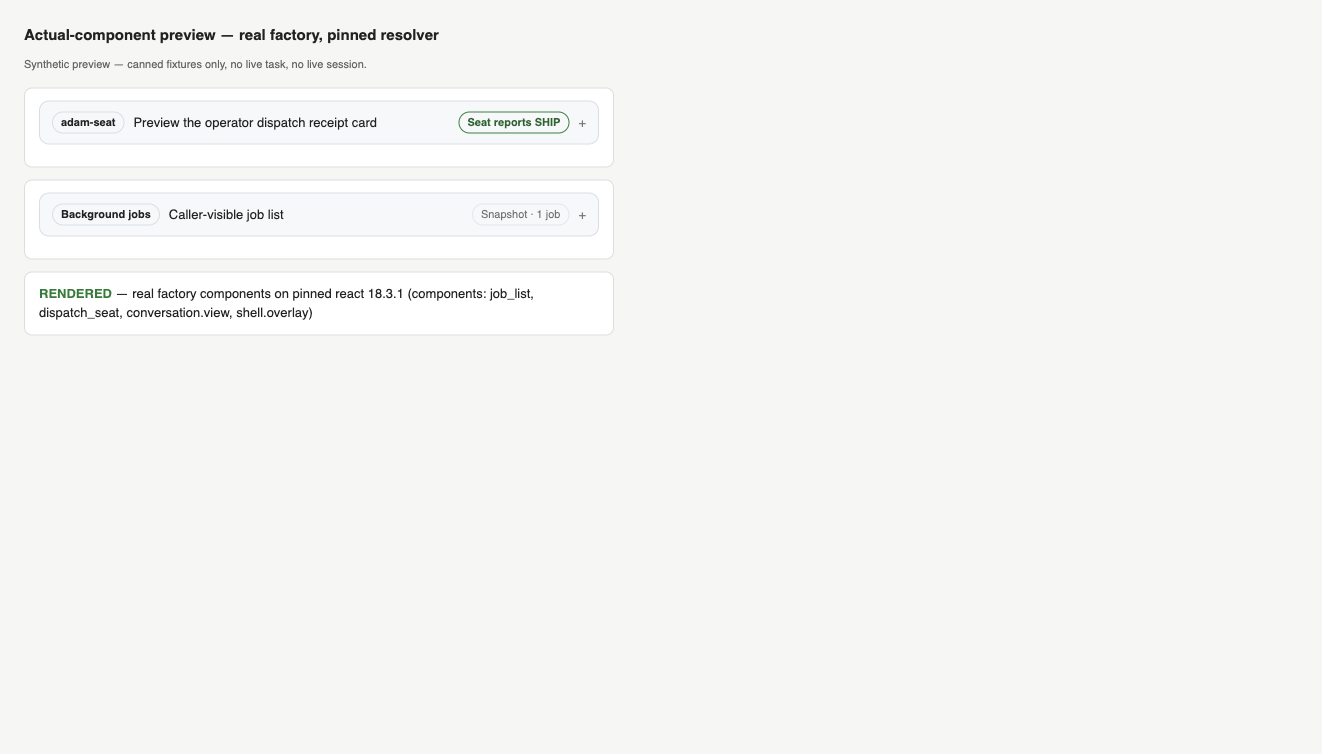
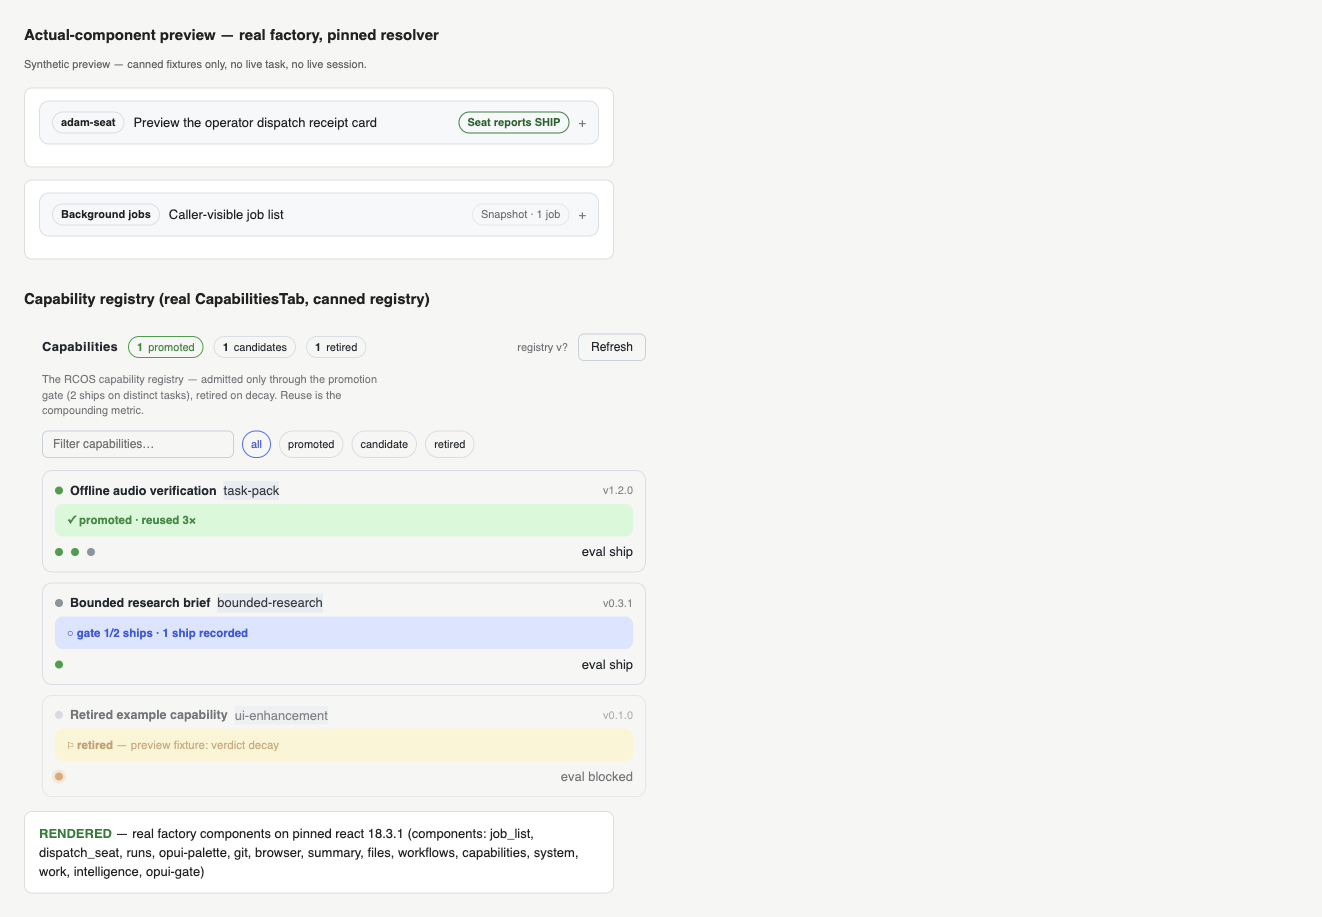
feat(B2): UI proof via P1 harness — real CapabilitiesTab renders registry states
- shim keys by def.key||def.id (tabs no longer collide); all 14 registered
  components captured, incl. CapabilitiesTab
- preview serves canned rcos-registry.json at the same-origin endpoint;
  harness mounts the real registry view: promoted / gate-1-of-2 / retired
- evidence screenshot updated (full-page, 14 components)
- queue: P1 -> DONE (UI proof), B2 UI-proof note resolved

diff --git a/test/fixtures/operator-preview/render.html b/test/fixtures/operator-preview/render.html
@@ -19,6 +19,8 @@
 <div class="banner" id="banner">Synthetic preview — canned fixtures only, no live task, no live session.</div>
 <div id="wm-root"></div>
 <div id="jl-root"></div>
+<h1 style="margin-top:28px">Capability registry (real CapabilitiesTab, canned registry)</h1>
+<div id="caps-root" style="max-width:640px"></div>
 <div id="summary" class="card">rendering…</div>
 
 <script src="/vendor/react.production.min.js"></script>
@@ -43,7 +45,9 @@ window.__ModuleLoader__ = {
     effect: function (fn) { fn(); },
     slots: {
       inject: function (name, registrar) { registrar(); },
-      register: function (def, Component) { captured[def.key || def.name || def.id] = Component; },
+      // key: tool slots carry def.key; conversation.view tabs carry unique
+      // def.id; keep both distinct or tabs overwrite each other.
+      register: function (def, Component) { captured[def.key || def.id || def.name] = Component; },
     },
   });
 
@@ -80,12 +84,16 @@ window.__ModuleLoader__ = {
     var React = window.React, ReactDOM = window.ReactDOM;
     var wm = captured['dispatch_seat'];
     var jl = captured['job_list'];
+    var caps = captured['capabilities'];
     ReactDOM.createRoot(document.getElementById('wm-root'))
       .render(React.createElement('div', { className: 'card' },
         React.createElement(wm, { callId: 'preview-call-1', toolName: 'dispatch_seat', block: wmBlock, openFile: function () {}, inspect: function () {} })));
     ReactDOM.createRoot(document.getElementById('jl-root'))
       .render(React.createElement('div', { className: 'card' },
         React.createElement(jl, { callId: 'preview-call-2', toolName: 'job_list', block: jlBlock, inspect: function () {} })));
+    if (caps) {
+      ReactDOM.createRoot(document.getElementById('caps-root')).render(React.createElement(caps));
+    }
     results.ok = true;
     results.components = Object.keys(captured);
     results.reactVersion = React.version;

diff --git a/docs/AGENT-QUEUE.md b/docs/AGENT-QUEUE.md
@@ -16,7 +16,7 @@ Desktop/Canvas wiring.
 | B1a Third-party plugin discovery contract | DONE (source audit; adapter/runtime pending) | A1, B1 | Luna source audit + independent survey reconciliation; `docs/PLUGIN-ECOSYSTEM-CONTRACT.md`; documented APIs, dataset rights limits and separate listing/host evidence types; no install or runtime edits |
 | C1 Scoped execution source store | DONE (source) · code `1f73faf`, gate `PASS` | none | Gate snapshot `2097220`; no DSH/Canvas wiring; see `docs/EXECUTION-SOURCE-EVIDENCE.md` |
 | A2 Packed install / setup | DONE (archive source proof `740bf11` gate PASS 596/596 + isolated boot/remove EXECUTED 2026-09-28) — completed by dsh-lead agent at base `f60bf81`; evidence `docs/DESKTOP-COMPATIBILITY.md` §A2 "EXECUTED", raw boot logs `~/dsh-a2-boot/` (machine-local, not committed); boot: fresh-`DSH_HOME` scratch profile, isolated userData via same-length asar name patch (pre-patch asar `cf92b07a…8ef53865` == recorded, post-patch `084abf1b…d95dcd9`), port 19388 via `cordis.patch.yml` `id: webserver`; shell HTTP 200 + auth flow + session scaffolded; session survived quit→relaunch; removal left active app's sessions (8), credentials mtime, and Electron userData mtime identical; zero leftover processes. Caveat recorded: per-file hash table 0/4 reproducible | A1 | feed re-fetched unchanged 2026-09-28; ZIP size + SHA-512 verified; asar inventory (runtime/dsh/dsh-tools `0.2.0-rc.1`, cordis `4.0.4`, node `24.18.1`); seams by string evidence; peer-range MISMATCH kept, no pin widened; active app untouched; see `docs/DESKTOP-COMPATIBILITY.md` §A2 |
-| B2 Capability selection / task path | DONE (model + selection tests; UI proof waits P1) · 10/10 focused tests | A1, B1, B1a | `lib/capability-selection.js`, `test/capability-selection.test.mjs`; exact-identity resolution to archon-workflow binding; stale/changed/absent/unexecutable/ineligible all refuse with no binding or alternate; P2 addendum refines this packet, not a separate owner |
+| B2 Capability selection / task path | DONE (model + selection tests + UI proof via P1 harness: real CapabilitiesTab renders promoted/gate/retired from canned registry) · 10/10 focused tests | A1, B1, B1a | `lib/capability-selection.js`, `test/capability-selection.test.mjs`; exact-identity resolution to archon-workflow binding; stale/changed/absent/unexecutable/ineligible all refuse with no binding or alternate; P2 addendum refines this packet, not a separate owner |
 | C2 Canvas import / host mount | SOURCE ADAPTER DONE (6/6) · mount BLOCKED on donor provenance | A1, C1 | `lib/canvas-binding.js` + `test/canvas-binding.test.mjs` (pure run:/artifact: resolver, no fetching, scalars only); mount waits licensed donor bytes (untracked dirty-tree files, no reuse license, renderer unwired per seam recon); serialize shared client edits; P1 supplies synthetic QA only |
 | C3 Canvas interaction / visual QA | WAITING | C2 | unclaimed |
 | D1 First artifact capability | BLOCKED (source audit at `cc02ace`: current goal dispatch has no structured media input, contained file mapping, output/evidence contract or aggregate resource bound; keep `workflow: null`) | A2, B2 | `lib/goal.js` and `capabilities/audio-offline-verify/adapter/run.js`; revisit when a supported adapter contract exists |
@@ -30,7 +30,7 @@ Desktop/Canvas wiring.
 | K2 Bounded entry review | PARTIAL — second-worker APPROVE, validator `ok:true` for the 13-row starter sample only; full awesome snapshot awaits K1b | a K1 snapshot | `docs/ecosystem/batches/2026-09-28-batch-{a,b}.json`, 5 briefs in `docs/ecosystem/candidates/`; 4 task-pack + 1 ui-enhancement proposals, 3 host-plugin, 2 native-reuse/duplicate, 1 defer, 2 reject — all reasoned with revisit conditions; K4 lead: bounded-research |
 | K3 Display-only discovery model | DONE (source) · 11/11 focused tests | B1a, K1 | `lib/plugin-discovery.js`, `test/plugin-discovery.test.mjs`; metadata-only projection, forged flags stripped, https-only links, unknown compatibility unless evidenced; no host-observation join or install action |
 | K4 One community-derived outcome pack | DONE (candidate, unbound) · evals 8/8 + negative control, 3/3 focused tests | reviewed K2 candidate, A1, B2, supported binding | exclusive `capabilities/bounded-research/` (contract, adapter `246b077f…e1fd5`, evals, candidate registry entry) + `test/bounded-research-capability.test.mjs`; B2 rehearsal refuses `absent-binding` as designed; D1/D2 remain existing starter packets |
-| P1 Actual-component preview | SOURCE RECONCILIATION NEEDED — upstream tag `dsh-v0.2.0-rc.1` lock resolves React/ReactDOM `18.3.1` (recorded in `docs/DESKTOP-POLISH-AUDIT.md`); local preview dependency bytes, resolver digest and browser rendering remain unproven | A1 | Existing loopback fixture host and guards at `c0473c7`; `docs/DESKTOP-VISUAL-QA.md` still says exact resolver is blocked, so reconcile that record before rendering; no live-app access |
+| P1 Actual-component preview | DONE (UI proof) — resolver identity triangulated (upstream lock 18.3.1 x staged 0.2.0-rc.1 bundle  x installed 0.1.7-rc.2 bundle , in-bundle 18.3.1 markers); real factory renders all 14 registered components on pinned react@18.3.1 without dispatch | A1 | , preview  harness +  digest-verified serving ( byte mismatch), evidence ; remaining original list (width/light-dark/200%/keyboard captures) still open, see DESKTOP-VISUAL-QA.md |
 | P3 Canvas polish (C2/C3 refinement) | WAITING | C2, P1; artifact authorization proof | same owner/claim as C3; not a second integration team |
 | P4 Daily-use candidate (E1 refinement) | WAITING | A2, B2, P3, one proven D1/D2/K4 outcome | same owner/claim as E1; narrower candidate does not satisfy full E1/R2 release gates |
 

diff --git a/docs/DESKTOP-VISUAL-QA.md b/docs/DESKTOP-VISUAL-QA.md
@@ -23,10 +23,17 @@ bytes — with per-host sha256 in `scripts/resolver-proof.json`.
 semantics were not changed). The real factory (`lib/client.js`) now renders
 in a real browser on the pinned bytes: harness `/render` captures the four
 components the factory registers (`dispatch_seat`, `job_list`,
-`conversation.view`, `shell.overlay`) and mounts two of them with canned
-versioned receipts — no dispatch, no CDN, no host session. Evidence:
+`conversation.view`, `shell.overlay`) and mounts two tool cards and the full capability registry tab with canned
+versioned receipts and a canned registry — no dispatch, no CDN, no host
+session. All 14 registered components are captured by the harness
+(`job_list`, `dispatch_seat`, `runs`, `opui-palette`, `git`, `browser`,
+`summary`, `files`, `workflows`, `capabilities`, `system`, `work`,
+`intelligence`, `opui-gate`). Evidence:
 `DESKTOP-VISUAL-QA-render-proof.png` (this directory; sha256
[2 lines of base64/hex data omitted]
+This render is also the B2 UI proof: the real `CapabilitiesTab` shows
+promoted / candidate-at-gate / retired states from the canned registry
+(`rcos-registry.json`) served same-origin by the preview server.
 
 ## What the harness does today
 
